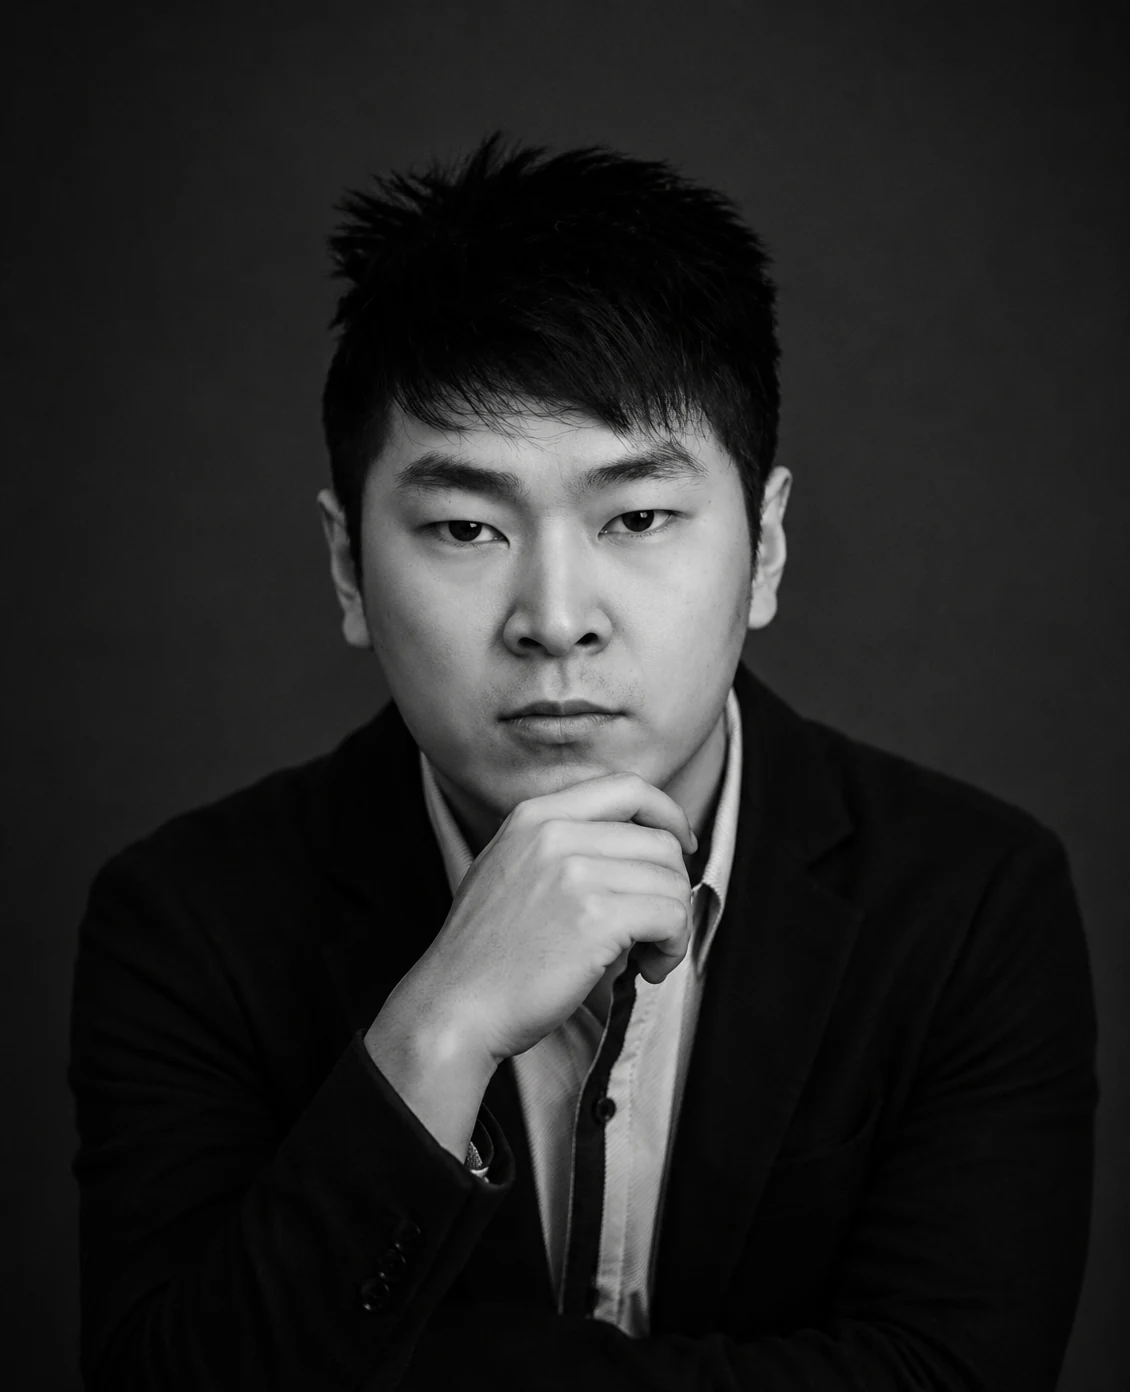
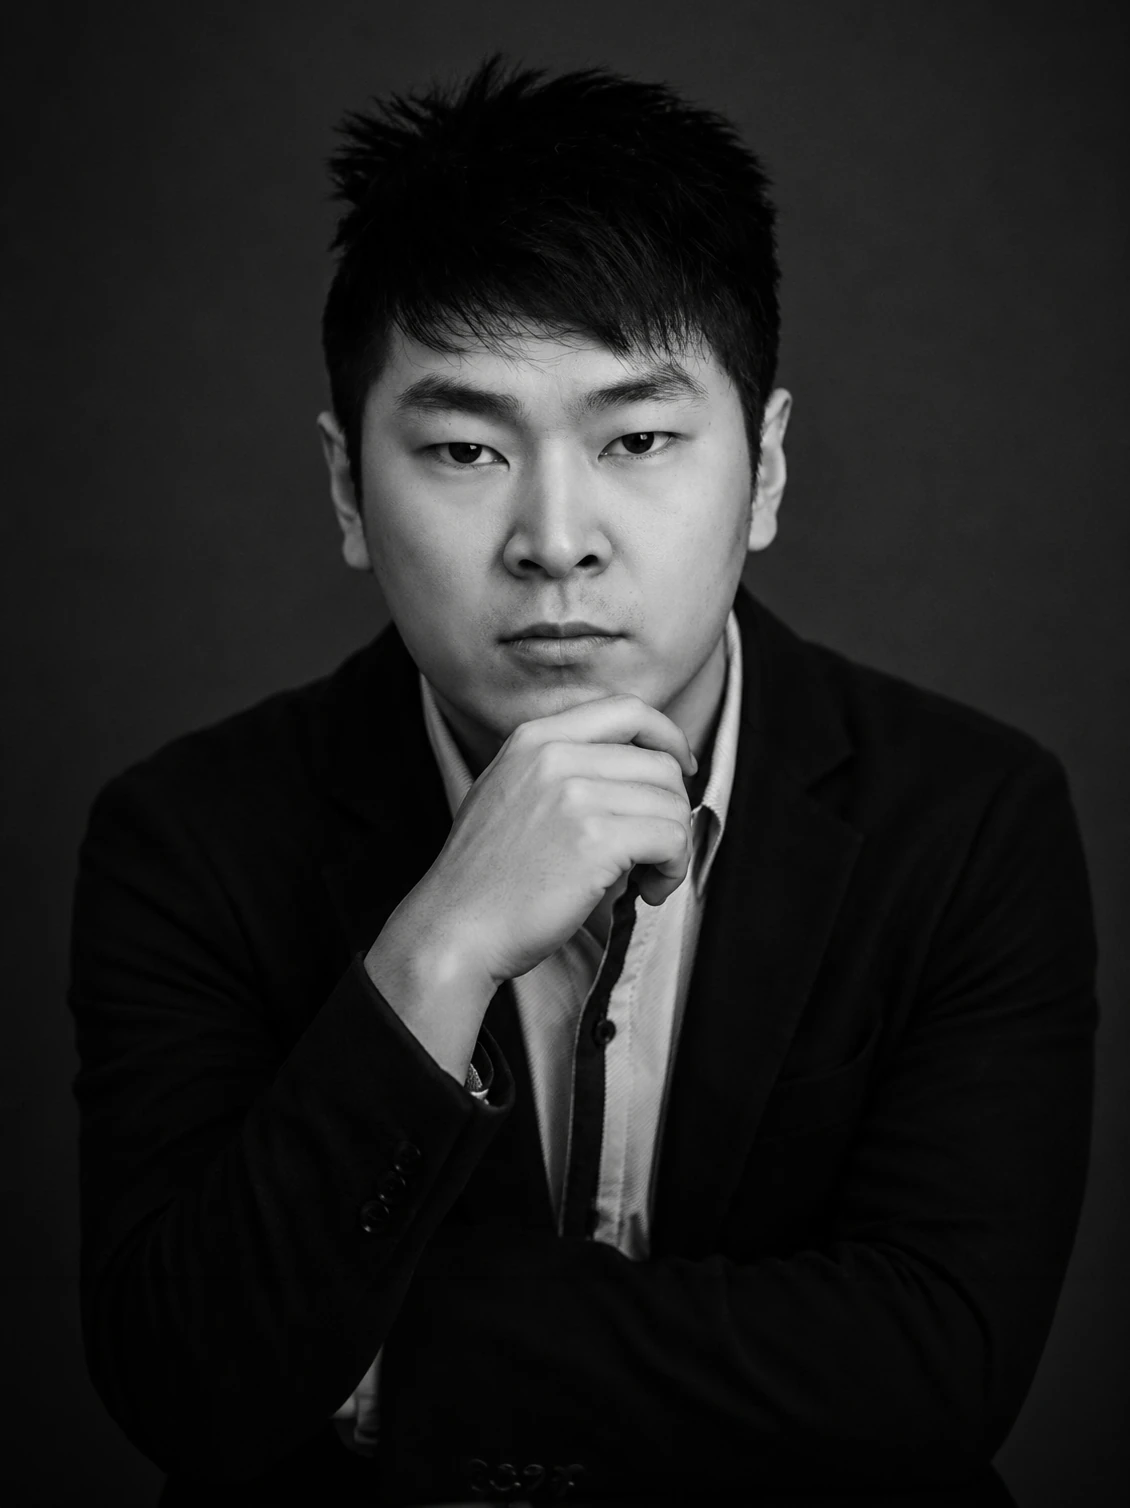
Update profile portrait layout

Changed region(s): [[0.1239, 0.1545, 0.9602, 0.9576], [0.2788, 0.0309, 0.7124, 0.2162], [0.2788, 0.8958, 0.3407, 0.9576]]

diff --git a/styles.css b/styles.css
@@ -1222,29 +1222,33 @@ h1 {
 .profile-figure {
   position: absolute;
   left: 0;
-  top: -58px;
-  display: grid;
-  justify-items: center;
-  gap: 6px;
-  width: 160px;
+  top: -72px;
+  width: 164px;
 }
 
 .portrait {
-  width: 150px;
-  height: 176px;
+  width: 164px;
+  height: auto;
   flex: 0 0 auto;
-  background: url("./assets/portrait.webp") center 18% / cover no-repeat;
+  display: block;
   border: 1px solid var(--line);
   box-shadow: 0 18px 36px rgba(0, 0, 0, 0.26);
 }
 
 .signature {
-  display: inline-block;
-  width: min(114px, 28vw);
+  position: absolute;
+  left: 10px;
+  right: auto;
+  bottom: 10px;
+  display: block;
+  width: min(68px, 18vw);
   height: auto;
   margin: 0;
+  opacity: 0.72;
   transform: rotate(-2deg);
   transform-origin: center center;
+  filter: drop-shadow(0 3px 8px rgba(0, 0, 0, 0.42));
+  pointer-events: none;
 }
 
 .profile-copy {

diff --git a/index.html b/index.html
@@ -114,7 +114,7 @@
       <section class="approach" id="approach">
         <div class="profile-block">
           <div class="profile-figure">
-            <div class="portrait"></div>
+            <img class="portrait" src="./assets/portrait.webp?v=20260620-profile-3" alt="Eason Cui portrait" />
             <img class="signature" src="./assets/signature-cuiyisan.svg" alt="崔一三艺术签名" />
           </div>
           <div class="profile-copy">
